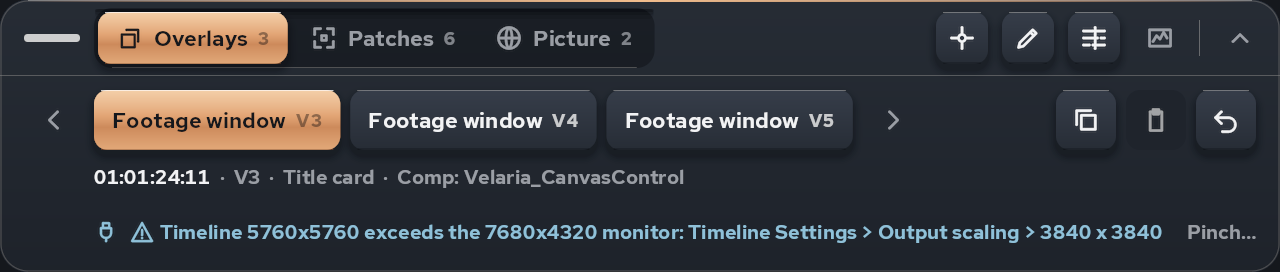
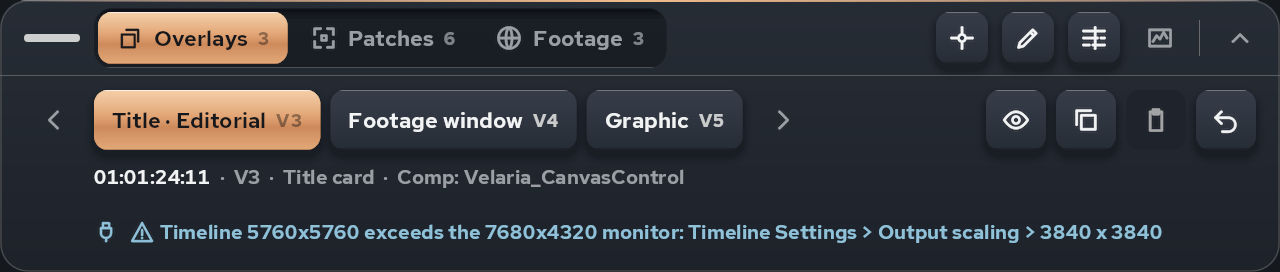
Docs: Selected / Settings / Footage names, reference renders regenerated from +87 (old look-*/placement-* renders removed), site rebuilt

diff --git a/docs/site/headset.html b/docs/site/headset.html
@@ -84,7 +84,7 @@ img { max-width: 100%; height: auto; border-radius: 14px; border: 1px solid var(
   <nav class="rail" aria-label="Velaria docs">
     <p class="brand"><a href="#SITE-URL">Velaria</a></p>
     <p class="brand-sub">Docs · 1.0</p>
-    <ul class="pages"><li><a href="index.html">Start here</a></li><li><a href="setup.html">Setup guide</a></li><li><a href="canvas-control.html">Canvas Control</a></li><li><a href="orient-360.html">Orient 360 and patches</a></li><li><a href="trim.html">Trim</a></li><li><a href="180-and-fisheye.html">180, 360 and fisheye</a></li><li><a href="headset.html" aria-current="page">Headset reference</a><ul class="toc"><li><a href="#the-strip">The strip</a></li><li><a href="#placement">Placement</a></li><li><a href="#look">Look</a></li><li><a href="#timeline">Timeline</a></li><li><a href="#scopes">Scopes</a></li><li><a href="#level-grid">Level grid</a></li><li><a href="#controller-shortcuts">Controller shortcuts</a></li></ul></li><li><a href="known-limits.html">Known limits</a></li><li><a href="support.html">Support and logs</a></li><li><a href="uninstall.html">Uninstall</a></li><li><a href="changelog.html">What changed</a></li></ul>
+    <ul class="pages"><li><a href="index.html">Start here</a></li><li><a href="setup.html">Setup guide</a></li><li><a href="canvas-control.html">Canvas Control</a></li><li><a href="orient-360.html">Orient 360 and patches</a></li><li><a href="trim.html">Trim</a></li><li><a href="180-and-fisheye.html">180, 360 and fisheye</a></li><li><a href="headset.html" aria-current="page">Headset reference</a><ul class="toc"><li><a href="#the-strip">The strip</a></li><li><a href="#selected">Selected</a></li><li><a href="#settings">Settings</a></li><li><a href="#timeline">Timeline</a></li><li><a href="#scopes">Scopes</a></li><li><a href="#level-grid">Level grid</a></li><li><a href="#controller-shortcuts">Controller shortcuts</a></li></ul></li><li><a href="known-limits.html">Known limits</a></li><li><a href="support.html">Support and logs</a></li><li><a href="uninstall.html">Uninstall</a></li><li><a href="changelog.html">What changed</a></li></ul>
     <p class="rail-foot">For a Mac with Apple silicon, DaVinci Resolve Studio and a Meta Quest. The pictures of the headset panels are drawn by the app's own code.</p>
   </nav>
   <main id="content">
@@ -98,11 +98,11 @@ img { max-width: 100%; height: auto; border-radius: 14px; border: 1px solid var(
 <p>The strip is always there when the panels are open. It answers two questions at a glance: which layer am I on, and which thing will my hand move?</p>
 <img loading="lazy" decoding="async" width="1280" height="272" alt="The strip on the Overlays layer with a footage window picked" src="ref/strip-overlays.png" />
 <ul>
-<li><strong>Overlays · Patches · Picture</strong> is the layer control, with a count of what is on this frame. Overlays are titles and footage windows, and you can pick them in the picture. Patches are LatLong Patcher windows. Picture is the whole sphere (PanoMap or Velaria Orient 360) and the Velaria Trim pass.</li>
-<li>The four icons on the right show and hide the <strong>Placement</strong>, <strong>Look</strong>, <strong>Timeline</strong> and <strong>Scopes</strong> panels. The chevron rolls the strip up to its bar.</li>
-<li>Row two has one chip for each thing on this layer. The copper chip is the one your hand moves, and there is only ever one. The arrows page through them.</li>
+<li><strong>Overlays · Patches · Footage</strong> is the layer control, with a count of what is on this frame. Overlays are titles and footage windows, and you can pick them in the picture. Patches are LatLong Patcher windows. Footage is the whole sphere (PanoMap or Velaria Orient 360) and the Velaria Trim pass.</li>
+<li>The four icons on the right show and hide the <strong>Selected</strong>, <strong>Settings</strong>, <strong>Timeline</strong> and <strong>Scopes</strong> panels. A panel you hide comes back where you left it. The chevron rolls the strip up to this bar, which is all you need once the panels are placed.</li>
+<li>Row two has one chip for each thing on this layer, named for what it is: <em>Title · Editorial</em>, <em>Footage window</em>, <em>Graphic</em>. A title plugged into a Canvas Control is one card with that Canvas Control, not two. The copper chip is the one your hand moves, and there is only ever one. The arrows page through them.</li>
 <li><strong>Copy</strong>, <strong>Paste</strong> and <strong>Undo</strong> act on the picked chip. Undo is Resolve's undo.</li>
-<li>Below that: timecode, track, clip, and what the overlay is built from. Then the status line: the link (USB or Wi-Fi), the software, and the last round trip (<em>Resolve updated in 0.4 s</em> or <em>Rendering… 1.2 s</em>).</li>
+<li>Below that: timecode, track, clip, and what the overlay is built from. Then the status line: the link (USB or Wi-Fi), the software, and the last round trip (<em>Resolve updated in 0.4 s</em> or <em>Rendering… 1.2 s</em>). A problem shows there only while it lasts: dropping frames, a delay over 250 ms, or a Resolve setup issue with its fix.</li>
 </ul>
 <img loading="lazy" decoding="async" width="1280" height="272" alt="The strip on the Patches layer with a locked patch picked" src="ref/strip-patches.png" />
 <p>On Patches, nothing in the picture can be picked. Tap a chip instead. The lock switch on the right locks the picked patch. A locked patch shows a lock on its chip, and the panels refuse changes until you unlock it.</p>
@@ -111,25 +111,27 @@ img { max-width: 100%; height: auto; border-radius: 14px; border: 1px solid var(
 <img loading="lazy" decoding="async" width="1280" height="272" alt="The strip while Resolve renders a change" src="ref/strip-rendering.png" />
 <img loading="lazy" decoding="async" width="1280" height="272" alt="The strip showing a setup warning" src="ref/strip-setup-warning.png" />
 <p>When Resolve's monitoring size, output scaling or frame rate is wrong, or no picture arrives, the status line says so with the fix in Resolve's own menu words. Fix it and the line clears on its own.</p>
-<h2 id="placement">Placement</h2>
-<img loading="lazy" decoding="async" width="900" height="1000" alt="The Placement panel for an overlay" src="ref/placement-card.png" />
+<h2 id="selected">Selected</h2>
+<p>Everything about the picked card is on this one panel. The first tab is <strong>Placement</strong>; the tabs after it are the card's own pages (Frame, Glow, Stereo for a footage window; Text, Plate, Lighting for a 3D title).</p>
+<img loading="lazy" decoding="async" width="900" height="1000" alt="The Selected panel on Placement" src="ref/selected-card.png" />
 <ul>
 <li><strong>Ring (Pan):</strong> you are the centre and front is up, at the white notch. Drag the dot around. The copper arc shows how far from front you are.</li>
 <li><strong>Arc (Tilt):</strong> a side view. The white line is the horizon.</li>
 <li><strong>Throttles (Distance, Scale):</strong> up is nearer or bigger. The real units are printed beside the travel.</li>
-<li><strong>Dials (Roll, and the window's own yaw, pitch and roll):</strong> drag up or down to turn. Tap a dial to zero it.</li>
+<li><strong>Dials (Roll, and the card's own yaw, pitch and roll):</strong> grab and turn, like a knob. Tap a dial to zero it.</li>
 <li>The diamond beside a control is its keyframe. Outline: not animated. White: animated. Copper: a keyframe on this frame. Tap it to set a keyframe at the playhead.</li>
 <li>Or skip the panel: pinch an overlay in the picture and drag it. Pan and Tilt follow your hand.</li>
 </ul>
-<img loading="lazy" decoding="async" width="900" height="1000" alt="The Placement panel for a patch" src="ref/placement-patch.png" />
+<img loading="lazy" decoding="async" width="900" height="1000" alt="The Selected panel on a title's Text tab" src="ref/selected-text.png" />
+<p>Bars have nudge chips for exact steps. An on/off control is a switch. Colours get a wheel with a brightness bar and a swatch.</p>
+<img loading="lazy" decoding="async" width="900" height="1000" alt="The Selected panel for a patch" src="ref/selected-patch.png" />
 <p>For a patch or the whole picture, the same panel shows that tool's rotations. A locked patch shows LOCKED and ignores drags.</p>
-<img loading="lazy" decoding="async" width="900" height="1000" alt="The Placement panel as TRIM" src="ref/placement-trim.png" />
-<p>With a <strong>Velaria Trim</strong> picked on the Picture layer, the Placement panel becomes <strong>TRIM</strong>: exposure, lift, gamma, gain, contrast, saturation, temperature, tint and amount, as bars.</p>
-<h2 id="look">Look</h2>
-<img loading="lazy" decoding="async" width="900" height="1000" alt="The Look panel on the Frame tab" src="ref/look-frame.png" />
-<p>The tabs are the effect's own Inspector pages (Frame, Glow, Stereo). Bars have nudge chips for exact steps. An on/off control is a switch. Colours get a wheel with a brightness bar.</p>
-<img loading="lazy" decoding="async" width="900" height="1000" alt="The Look panel on the View tab" src="ref/look-view.png" />
-<p>The <strong>View</strong> tab holds the app's own settings:</p>
+<img loading="lazy" decoding="async" width="900" height="1000" alt="The Selected panel as TRIM" src="ref/selected-trim.png" />
+<p>With a <strong>Velaria Trim</strong> picked on the Footage layer, the Selected panel becomes <strong>TRIM</strong>: exposure, lift, gamma, gain, contrast, saturation, temperature, tint and amount, as bars.</p>
+<h2 id="settings">Settings</h2>
+<p>Closed until you open it from the strip. It holds the app's own settings and the numbers you only need when something is wrong.</p>
+<img loading="lazy" decoding="async" width="900" height="1000" alt="The Settings panel" src="ref/settings-view.png" />
+<p>The <strong>View</strong> tab:</p>
 <ul>
 <li><strong>Stream and Playback:</strong> picture size, layout, frame rate, bitrate, timecode and delay.</li>
 <li><strong>Source:</strong> Auto, Resolve, or Premiere / After Effects (experimental).</li>
@@ -138,18 +140,18 @@ img { max-width: 100%; height: auto; border-radius: 14px; border: 1px solid var(
 <li><strong>Panels:</strong> Recentre view, panels placed or following you, Scopes on or off.</li>
 <li><strong>The versions line</strong> at the bottom right: the headset app, the Mac package, the bridge when it differs, and Resolve. Take a screenshot of this line when you ask for help.</li>
 </ul>
-<img loading="lazy" decoding="async" width="900" height="1000" alt="The View tab with the fisheye lens presets" src="ref/look-fisheye.png" />
+<img loading="lazy" decoding="async" width="900" height="1000" alt="Settings with the fisheye lens presets" src="ref/settings-fisheye.png" />
 <p>With the Fisheye 180° projection, the lens presets appear: Canon 5.2 (190°), Canon 3.9 (144°), 180°, 200° and 220°, with a 5° trim either way.</p>
 <h2 id="timeline">Timeline</h2>
-<img loading="lazy" decoding="async" width="1400" height="340" alt="The Timeline panel" src="ref/deck-timeline.png" />
+<img loading="lazy" decoding="async" width="1400" height="410" alt="The Timeline panel" src="ref/deck-timeline.png" />
 <p>Clip lanes for each video track, the playhead in red, and markers above. Drag in the lanes to scrub. <strong>Clip</strong> arrows jump to clip edges. <strong>-1</strong> and <strong>+1</strong> step one frame. The chip on the right zooms to All, 60 s or 10 s.</p>
 <p>Play and stop stay in Resolve. Use the space bar.</p>
 <h2 id="scopes">Scopes</h2>
 <img loading="lazy" decoding="async" width="1100" height="560" alt="Scopes: waveform and vectorscope" src="ref/scopes-waveform.png" />
 <p>The scopes are measured on the Mac from the uncompressed picture Resolve plays out, before it is compressed for the headset. Choose waveform with vectorscope, RGB parade, or histograms. The lines at 0, 25, 50, 75 and 100 are video range. The vectorscope carries the 75% colour-bar targets and the skin-tone line.</p>
-<p>Scopes are off until you turn them on, in the View tab or with the scopes icon on the strip.</p>
+<p>Scopes are off until you turn them on, in Settings or with the scopes icon on the strip.</p>
 <h2 id="level-grid">Level grid</h2>
-<p>Turn it on in the View tab (Overlays, Level grid). A level copper horizon with yaw ticks and pitch lines sits over the footage. Use it with the Picture layer to re-level a shot: bring the real horizon to the line. The grid belongs to the room, not the footage, so it never moves with your edits.</p>
+<p>Turn it on in Settings (Overlays, Level grid). A level copper horizon with yaw ticks and pitch lines sits over the footage. Use it with the Footage layer to re-level a shot: bring the real horizon to the line. The grid belongs to the room, not the footage, so it never moves with your edits.</p>
 <h2 id="controller-shortcuts">Controller shortcuts</h2>
 <div class="table-wrap"><table>
 <thead>

diff --git a/docs/site/setup.html b/docs/site/setup.html
@@ -139,11 +139,12 @@ img { max-width: 100%; height: auto; border-radius: 14px; border: 1px solid var(
 <li>Press play in Resolve. The timeline is in the headset, in step with Resolve's viewer. Scrub, park or play, and it follows.</li>
 <li><strong>Look down</strong> to open the panels. Look back up past the horizon to close them. Grab a panel's top bar to put it where you like. The layout is remembered.</li>
 </ol>
-<p>Sound stays on the Mac. Play and stop are Resolve's own (the space bar); the headset can scrub and step.</p>
+<p>Sound plays in the headset too: Resolve's monitor mix (Fairlight's Control Room output) comes with the picture. Play and stop are Resolve's own (the space bar); the headset can scrub and step.</p>
+<p><strong>Hearing an ambisonic mix, head-tracked.</strong> Fairlight cannot send an Ambisonics bus to any output card, so Velaria brings its own insert, <strong>Velaria Sound</strong> (installed with the rest; Resolve finds it on its next launch, and it is listed under <strong>Preferences &gt; System &gt; Audio Plugins</strong> if it needs ticking). On the Fairlight page, set the bus you mix on to <strong>Ambisonics 1st order</strong> and insert <strong>Velaria Sound</strong> on it. That is all: no patching. The headset's Sound chip reads <strong>ambisonic · bus</strong>, the bus's four channels reach the headset in sync with the picture, and turning your head keeps every sound where you panned it. On a stereo bus the same insert sends the stereo mix (chip: <strong>in headset · bus</strong>). The plugin changes nothing in the mix; it only copies it out.</p>
 <h2 id="5-place-things-from-the-headset">5. Place things from the headset</h2>
 <ul>
 <li>In Resolve, open the Edit page and go to <strong>Effects &gt; Velaria</strong>. You get three effects: <strong>Velaria Canvas Control</strong> (a footage window, a flat title or your own 3D scene), <strong>Velaria Orient 360</strong> (re-orient a stereo 360 shot) and <strong>Velaria Trim</strong> (a trim pass on an adjustment clip). Each has its own how-to.</li>
-<li>In the headset, the strip shows three layers: <strong>Overlays</strong>, <strong>Patches</strong> and <strong>Picture</strong>. On Overlays, pinch a window in the picture and move it, or tap its chip on the strip and use the Placement panel.</li>
+<li>In the headset, the strip shows three layers: <strong>Overlays</strong>, <strong>Patches</strong> and <strong>Footage</strong>. On Overlays, pinch a window in the picture and move it, or tap its chip on the strip and use the Selected panel.</li>
 <li>When you let go, Resolve renders the change and the strip reports the time: <em>Resolve updated in 0.4 s</em>.</li>
 <li>Every change you make in the headset is a real change to the project. Undo is Resolve's undo. Save in Resolve as usual.</li>
 </ul>
@@ -166,7 +167,7 @@ img { max-width: 100%; height: auto; border-radius: 14px; border: 1px solid var(
 <li>In Premiere, open <strong>Settings &gt; Playback</strong>, enable Mercury Transmit and tick the NDI device.</li>
 <li>In the headset, leave <strong>Source</strong> on Auto.</li>
 </ol>
-<p>If the headset says <em>Premiere / After Effects</em> when you want Resolve, open the Look panel's View tab and tap <strong>Source</strong> until it reads Auto.</p>
+<p>If the headset says <em>Premiere / After Effects</em> when you want Resolve, open Settings and tap <strong>Source</strong> until it reads Auto.</p>
 <h2 id="8-settings-file">8. Settings file</h2>
 <p><code>~/Library/Application Support/Velaria/config.plist</code> holds the Mac-side settings. Restart Resolve after you change it. You will rarely need to.</p>
 <div class="table-wrap"><table>

diff --git a/docs/site/orient-360.html b/docs/site/orient-360.html
@@ -103,18 +103,18 @@ img { max-width: 100%; height: auto; border-radius: 14px; border: 1px solid var(
 <ol>
 <li>Open the clip on the Fusion page.</li>
 <li>Add <strong>Velaria Orient 360</strong> from the Effects Library's Macros, between your last patch or paint node and MediaOut. Putting it last means your patches turn with the shot.</li>
-<li>Put the headset on and switch the strip to <strong>Picture</strong>. Tap <strong>Orient 360</strong>. The Placement panel shows Pan, Tilt and Roll.</li>
-<li>Open the Look panel's <strong>View</strong> tab and turn on <strong>Level grid</strong>. A level copper horizon appears over the footage. Bring the real horizon to the line.</li>
+<li>Put the headset on and switch the strip to <strong>Footage</strong>. Tap <strong>Orient 360</strong>. The Selected panel shows Pan, Tilt and Roll.</li>
+<li>Open <strong>Settings</strong> and turn on <strong>Level grid</strong>. A level copper horizon appears over the footage. Bring the real horizon to the line.</li>
 </ol>
 <p>If you drag Orient 360 from the Edit page onto a clip that already has a Fusion composition, Resolve adds it without connecting it. Connect it on the Fusion page.</p>
 <h2 id="work-on-patches">Work on patches</h2>
 <ol>
 <li>Build your paint-outs with LatLong Patcher on the Fusion page as usual.</li>
 <li>In the headset, switch the strip to <strong>Patches</strong>. Each LatLong Patcher window has a chip.</li>
-<li>Tap a chip. The Placement panel shows that patch's rotations.</li>
+<li>Tap a chip. The Selected panel shows that patch's rotations.</li>
 <li>Use the <strong>Lock</strong> switch on the right of the strip to lock a patch you are happy with. A locked patch shows a lock on its chip and ignores changes until you unlock it.</li>
 </ol>
-<p>On the Patches and Picture layers nothing in the picture is pickable, so a stray pinch cannot move a title while you work.</p>
+<p>On the Patches and Footage layers nothing in the picture is pickable, so a stray pinch cannot move a title while you work.</p>
 <h2 id="quick-answers">Quick answers</h2>
 <ul>
 <li><strong>Orient 360 does nothing.</strong> It is not connected. Check on the Fusion page that the shot goes into it and it goes into MediaOut.</li>

diff --git a/docs/site/known-limits.html b/docs/site/known-limits.html
@@ -113,7 +113,8 @@ img { max-width: 100%; height: auto; border-radius: 14px; border: 1px solid var(
 </ul>
 <h2 id="sound-and-transport">Sound and transport</h2>
 <ul>
-<li><strong>No sound in the headset.</strong> Listen on the Mac.</li>
+<li><strong>Sound is the monitor mix</strong>, or the bus <strong>Velaria Sound</strong> is inserted on. First-order ambisonics only (what the headsets' own players decode); higher orders are heard as first order. The headset decodes it binaurally (a generic HRTF, SADIE II), so the image is not identical to Fairlight's own Binaural monitor, which uses a different HRTF set.</li>
+<li><strong>Audio delay follows video delay.</strong> The headset adds the delay the mix needs to stay in step with the picture; expect a short settling period after play starts.</li>
 <li><strong>Play and stop are Resolve's.</strong> The headset can scrub, step and jump between clips, but it cannot start or stop playback.</li>
 </ul>
 <h2 id="editing-from-the-headset">Editing from the headset</h2>

diff --git a/docs/site/canvas-control.html b/docs/site/canvas-control.html
@@ -98,7 +98,7 @@ img { max-width: 100%; height: auto; border-radius: 14px; border: 1px solid var(
 <ol>
 <li>On the Edit page, put the clip you want in the window on a track <strong>above</strong> your 360 or 180 shot (V2 or higher).</li>
 <li>Drag <strong>Velaria Canvas Control</strong> from Effects &gt; Velaria onto that upper clip. Do not drop it on the background shot itself: the effect outputs the window on a transparent background, and the timeline lays it over the shot.</li>
-<li>Put the headset on. The window is on the <strong>Overlays</strong> layer. Pinch it in the picture and move it, or tap its chip on the strip and use the Placement panel.</li>
+<li>Put the headset on. The window is on the <strong>Overlays</strong> layer. Pinch it in the picture and move it, or tap its chip on the strip and use the Selected panel.</li>
 <li>Let go. Resolve renders the change and the strip shows how long it took.</li>
 </ol>
 <h2 id="a-flat-title-or-graphic">A flat title or graphic</h2>

diff --git a/docs/site/trim.html b/docs/site/trim.html
@@ -97,7 +97,7 @@ img { max-width: 100%; height: auto; border-radius: 14px; border: 1px solid var(
 <ol>
 <li>On the Edit page, put an <strong>Adjustment Clip</strong> over the section (Effects &gt; Toolbox &gt; Effects &gt; Adjustment Clip), on the top track so it sees everything below it.</li>
 <li>Drag <strong>Velaria Trim</strong> from Effects &gt; Velaria onto the adjustment clip.</li>
-<li>In the headset, switch the strip to <strong>Picture</strong> and tap <strong>Trim</strong>. The Placement panel becomes <strong>TRIM</strong>.</li>
+<li>In the headset, switch the strip to <strong>Footage</strong> and tap <strong>Trim</strong>. The Selected panel becomes <strong>TRIM</strong>.</li>
 </ol>
 <h2 id="the-controls">The controls</h2>
 <p>All nine are on one Inspector page, <em>Trim</em>, and as bars in the headset:</p>

diff --git a/docs/site/support.html b/docs/site/support.html
@@ -103,7 +103,7 @@ img { max-width: 100%; height: auto; border-radius: 14px; border: 1px solid var(
 <h2 id="what-to-send">What to send</h2>
 <ol>
 <li><strong>One line on what you saw</strong>, and the time it happened.</li>
-<li><strong>A screenshot of the versions line.</strong> In the headset: look down, Look panel, View tab, bottom right. It names the headset app, the Mac package, the bridge and Resolve.</li>
+<li><strong>A screenshot of the versions line.</strong> In the headset: look down, open Settings from the strip, bottom right. It names the headset app, the Mac package, the bridge and Resolve.</li>
 <li><strong>The logs zip</strong>, made as below.</li>
 </ol>
 <h2 id="make-the-logs-zip">Make the logs zip</h2>

diff --git a/docs/site/changelog.html b/docs/site/changelog.html
@@ -92,7 +92,7 @@ img { max-width: 100%; height: auto; border-radius: 14px; border: 1px solid var(
       <p class="eyebrow">Velaria · What changed</p>
       <h1>What changed</h1>
       
-<p>Newest first. The Look panel's View tab in the headset shows the versions you are running.</p>
+<p>Newest first. The Settings panel in the headset shows the versions you are running.</p>
 <h2 id="1-0">1.0</h2>
 <p>The first public release.</p>
 <ul>

diff --git a/docs/public/headset-reference.md b/docs/public/headset-reference.md
@@ -10,11 +10,11 @@ The strip is always there when the panels are open. It answers two questions at 
 
 ![The strip on the Overlays layer with a footage window picked](ref/strip-overlays.png)
 
-- **Overlays · Patches · Picture** is the layer control, with a count of what is on this frame. Overlays are titles and footage windows, and you can pick them in the picture. Patches are LatLong Patcher windows. Picture is the whole sphere (PanoMap or Velaria Orient 360) and the Velaria Trim pass.
-- The four icons on the right show and hide the **Placement**, **Look**, **Timeline** and **Scopes** panels. The chevron rolls the strip up to its bar.
-- Row two has one chip for each thing on this layer. The copper chip is the one your hand moves, and there is only ever one. The arrows page through them.
+- **Overlays · Patches · Footage** is the layer control, with a count of what is on this frame. Overlays are titles and footage windows, and you can pick them in the picture. Patches are LatLong Patcher windows. Footage is the whole sphere (PanoMap or Velaria Orient 360) and the Velaria Trim pass.
+- The four icons on the right show and hide the **Selected**, **Settings**, **Timeline** and **Scopes** panels. A panel you hide comes back where you left it. The chevron rolls the strip up to this bar, which is all you need once the panels are placed.
+- Row two has one chip for each thing on this layer, named for what it is: *Title · Editorial*, *Footage window*, *Graphic*. A title plugged into a Canvas Control is one card with that Canvas Control, not two. The copper chip is the one your hand moves, and there is only ever one. The arrows page through them.
 - **Copy**, **Paste** and **Undo** act on the picked chip. Undo is Resolve's undo.
-- Below that: timecode, track, clip, and what the overlay is built from. Then the status line: the link (USB or Wi-Fi), the software, and the last round trip (*Resolve updated in 0.4 s* or *Rendering… 1.2 s*).
+- Below that: timecode, track, clip, and what the overlay is built from. Then the status line: the link (USB or Wi-Fi), the software, and the last round trip (*Resolve updated in 0.4 s* or *Rendering… 1.2 s*). A problem shows there only while it lasts: dropping frames, a delay over 250 ms, or a Resolve setup issue with its fix.
 
 ![The strip on the Patches layer with a locked patch picked](ref/strip-patches.png)
 
@@ -30,34 +30,38 @@ An empty layer says so and offers the nearest overlay on either side, with its t
 
 When Resolve's monitoring size, output scaling or frame rate is wrong, or no picture arrives, the status line says so with the fix in Resolve's own menu words. Fix it and the line clears on its own.
 
-## Placement
+## Selected
 
-![The Placement panel for an overlay](ref/placement-card.png)
+Everything about the picked card is on this one panel. The first tab is **Placement**; the tabs after it are the card's own pages (Frame, Glow, Stereo for a footage window; Text, Plate, Lighting for a 3D title).
+
+![The Selected panel on Placement](ref/selected-card.png)
 
 - **Ring (Pan):** you are the centre and front is up, at the white notch. Drag the dot around. The copper arc shows how far from front you are.
 - **Arc (Tilt):** a side view. The white line is the horizon.
 - **Throttles (Distance, Scale):** up is nearer or bigger. The real units are printed beside the travel.
-- **Dials (Roll, and the window's own yaw, pitch and roll):** drag up or down to turn. Tap a dial to zero it.
+- **Dials (Roll, and the card's own yaw, pitch and roll):** grab and turn, like a knob. Tap a dial to zero it.
 - The diamond beside a control is its keyframe. Outline: not animated. White: animated. Copper: a keyframe on this frame. Tap it to set a keyframe at the playhead.
 - Or skip the panel: pinch an overlay in the picture and drag it. Pan and Tilt follow your hand.
 
-![The Placement panel for a patch](ref/placement-patch.png)
+![The Selected panel on a title's Text tab](ref/selected-text.png)
+
+Bars have nudge chips for exact steps. An on/off control is a switch. Colours get a wheel with a brightness bar and a swatch.
+
+![The Selected panel for a patch](ref/selected-patch.png)
 
 For a patch or the whole picture, the same panel shows that tool's rotations. A locked patch shows LOCKED and ignores drags.
 
-![The Placement panel as TRIM](ref/placement-trim.png)
+![The Selected panel as TRIM](ref/selected-trim.png)
 
-With a **Velaria Trim** picked on the Picture layer, the Placement panel becomes **TRIM**: exposure, lift, gamma, gain, contrast, saturation, temperature, tint and amount, as bars.
+With a **Velaria Trim** picked on the Footage layer, the Selected panel becomes **TRIM**: exposure, lift, gamma, gain, contrast, saturation, temperature, tint and amount, as bars.
 
-## Look
+## Settings
 
-![The Look panel on the Frame tab](ref/look-frame.png)
+Closed until you open it from the strip. It holds the app's own settings and the numbers you only need when something is wrong.
 
-The tabs are the effect's own Inspector pages (Frame, Glow, Stereo). Bars have nudge chips for exact steps. An on/off control is a switch. Colours get a wheel with a brightness bar.
+![The Settings panel](ref/settings-view.png)
 
-![The Look panel on the View tab](ref/look-view.png)
-
-The **View** tab holds the app's own settings:
+The **View** tab:
 
 - **Stream and Playback:** picture size, layout, frame rate, bitrate, timecode and delay.
 - **Source:** Auto, Resolve, or Premiere / After Effects (experimental).
@@ -66,7 +70,7 @@ The **View** tab holds the app's own settings:
 - **Panels:** Recentre view, panels placed or following you, Scopes on or off.
 - **The versions line** at the bottom right: the headset app, the Mac package, the bridge when it differs, and Resolve. Take a screenshot of this line when you ask for help.
 
-![The View tab with the fisheye lens presets](ref/look-fisheye.png)
+![Settings with the fisheye lens presets](ref/settings-fisheye.png)
 
 With the Fisheye 180° projection, the lens presets appear: Canon 5.2 (190°), Canon 3.9 (144°), 180°, 200° and 220°, with a 5° trim either way.
 
@@ -84,11 +88,11 @@ Play and stop stay in Resolve. Use the space bar.
 
 The scopes are measured on the Mac from the uncompressed picture Resolve plays out, before it is compressed for the headset. Choose waveform with vectorscope, RGB parade, or histograms. The lines at 0, 25, 50, 75 and 100 are video range. The vectorscope carries the 75% colour-bar targets and the skin-tone line.
 
-Scopes are off until you turn them on, in the View tab or with the scopes icon on the strip.
+Scopes are off until you turn them on, in Settings or with the scopes icon on the strip.
 
 ## Level grid
 
-Turn it on in the View tab (Overlays, Level grid). A level copper horizon with yaw ticks and pitch lines sits over the footage. Use it with the Picture layer to re-level a shot: bring the real horizon to the line. The grid belongs to the room, not the footage, so it never moves with your edits.
+Turn it on in Settings (Overlays, Level grid). A level copper horizon with yaw ticks and pitch lines sits over the footage. Use it with the Footage layer to re-level a shot: bring the real horizon to the line. The grid belongs to the room, not the footage, so it never moves with your edits.
 
 ## Controller shortcuts
 

diff --git a/docs/public/howto-orient-360-and-patches.md b/docs/public/howto-orient-360-and-patches.md
@@ -12,8 +12,8 @@ Use this page to re-level or re-aim a 360 shot, and to work on paint-out patches
 
 1. Open the clip on the Fusion page.
 2. Add **Velaria Orient 360** from the Effects Library's Macros, between your last patch or paint node and MediaOut. Putting it last means your patches turn with the shot.
-3. Put the headset on and switch the strip to **Picture**. Tap **Orient 360**. The Placement panel shows Pan, Tilt and Roll.
-4. Open the Look panel's **View** tab and turn on **Level grid**. A level copper horizon appears over the footage. Bring the real horizon to the line.
+3. Put the headset on and switch the strip to **Footage**. Tap **Orient 360**. The Selected panel shows Pan, Tilt and Roll.
+4. Open **Settings** and turn on **Level grid**. A level copper horizon appears over the footage. Bring the real horizon to the line.
 
 If you drag Orient 360 from the Edit page onto a clip that already has a Fusion composition, Resolve adds it without connecting it. Connect it on the Fusion page.
 
@@ -21,10 +21,10 @@ If you drag Orient 360 from the Edit page onto a clip that already has a Fusion 
 
 1. Build your paint-outs with LatLong Patcher on the Fusion page as usual.
 2. In the headset, switch the strip to **Patches**. Each LatLong Patcher window has a chip.
-3. Tap a chip. The Placement panel shows that patch's rotations.
+3. Tap a chip. The Selected panel shows that patch's rotations.
 4. Use the **Lock** switch on the right of the strip to lock a patch you are happy with. A locked patch shows a lock on its chip and ignores changes until you unlock it.
 
-On the Patches and Picture layers nothing in the picture is pickable, so a stray pinch cannot move a title while you work.
+On the Patches and Footage layers nothing in the picture is pickable, so a stray pinch cannot move a title while you work.
 
 ## Quick answers
 

diff --git a/docs/public/setup-guide.md b/docs/public/setup-guide.md
@@ -64,7 +64,7 @@ Sound plays in the headset too: Resolve's monitor mix (Fairlight's Control Room 
 ## 5. Place things from the headset
 
 - In Resolve, open the Edit page and go to **Effects > Velaria**. You get three effects: **Velaria Canvas Control** (a footage window, a flat title or your own 3D scene), **Velaria Orient 360** (re-orient a stereo 360 shot) and **Velaria Trim** (a trim pass on an adjustment clip). Each has its own how-to.
-- In the headset, the strip shows three layers: **Overlays**, **Patches** and **Picture**. On Overlays, pinch a window in the picture and move it, or tap its chip on the strip and use the Placement panel.
+- In the headset, the strip shows three layers: **Overlays**, **Patches** and **Footage**. On Overlays, pinch a window in the picture and move it, or tap its chip on the strip and use the Selected panel.
 - When you let go, Resolve renders the change and the strip reports the time: *Resolve updated in 0.4 s*.
 - Every change you make in the headset is a real change to the project. Undo is Resolve's undo. Save in Resolve as usual.
 
@@ -89,7 +89,7 @@ The headset's Source setting also lists Premiere / After Effects. This path is e
 3. In Premiere, open **Settings > Playback**, enable Mercury Transmit and tick the NDI device.
 4. In the headset, leave **Source** on Auto.
 
-If the headset says *Premiere / After Effects* when you want Resolve, open the Look panel's View tab and tap **Source** until it reads Auto.
+If the headset says *Premiere / After Effects* when you want Resolve, open Settings and tap **Source** until it reads Auto.
 
 ## 8. Settings file
 

diff --git a/docs/public/howto-canvas-control.md b/docs/public/howto-canvas-control.md
@@ -8,7 +8,7 @@ You need DaVinci Resolve Studio 19 or newer and the Velaria effects, which the i
 
 1. On the Edit page, put the clip you want in the window on a track **above** your 360 or 180 shot (V2 or higher).
 2. Drag **Velaria Canvas Control** from Effects > Velaria onto that upper clip. Do not drop it on the background shot itself: the effect outputs the window on a transparent background, and the timeline lays it over the shot.
-3. Put the headset on. The window is on the **Overlays** layer. Pinch it in the picture and move it, or tap its chip on the strip and use the Placement panel.
+3. Put the headset on. The window is on the **Overlays** layer. Pinch it in the picture and move it, or tap its chip on the strip and use the Selected panel.
 4. Let go. Resolve renders the change and the strip shows how long it took.
 
 ## A flat title or graphic
